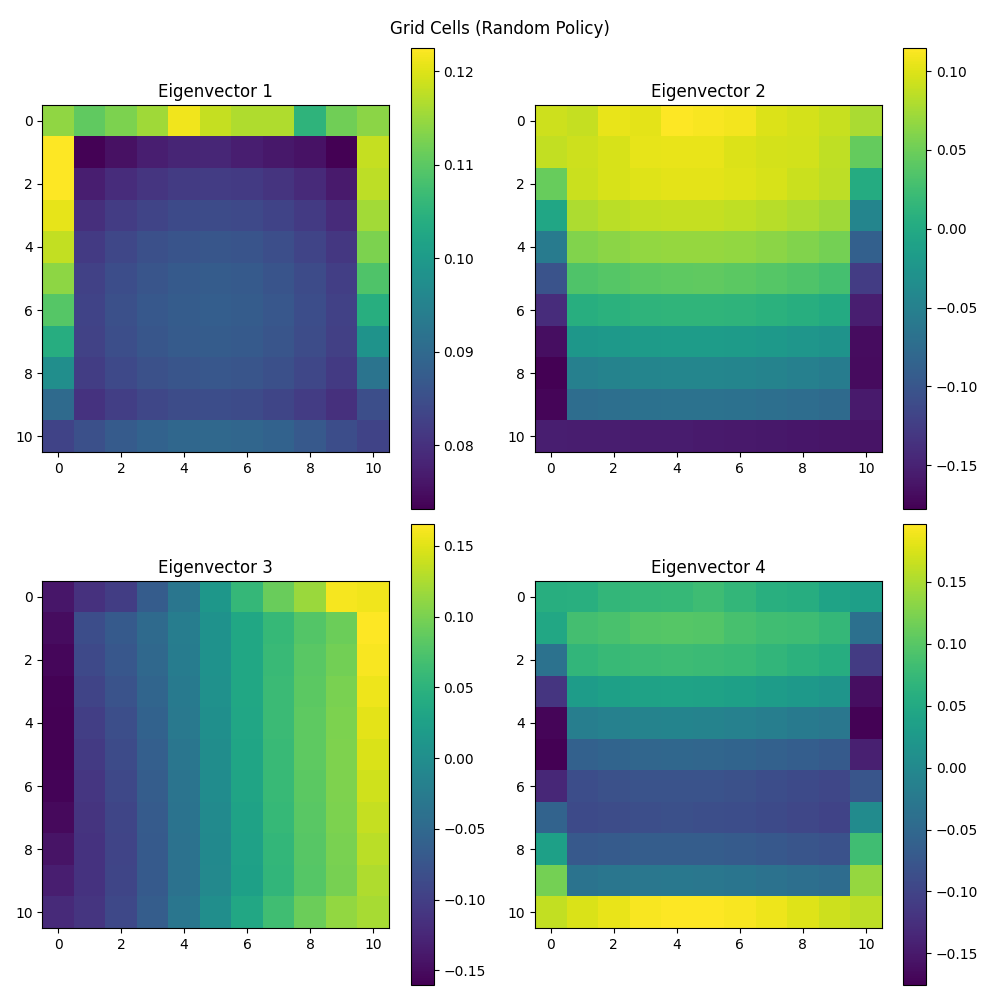
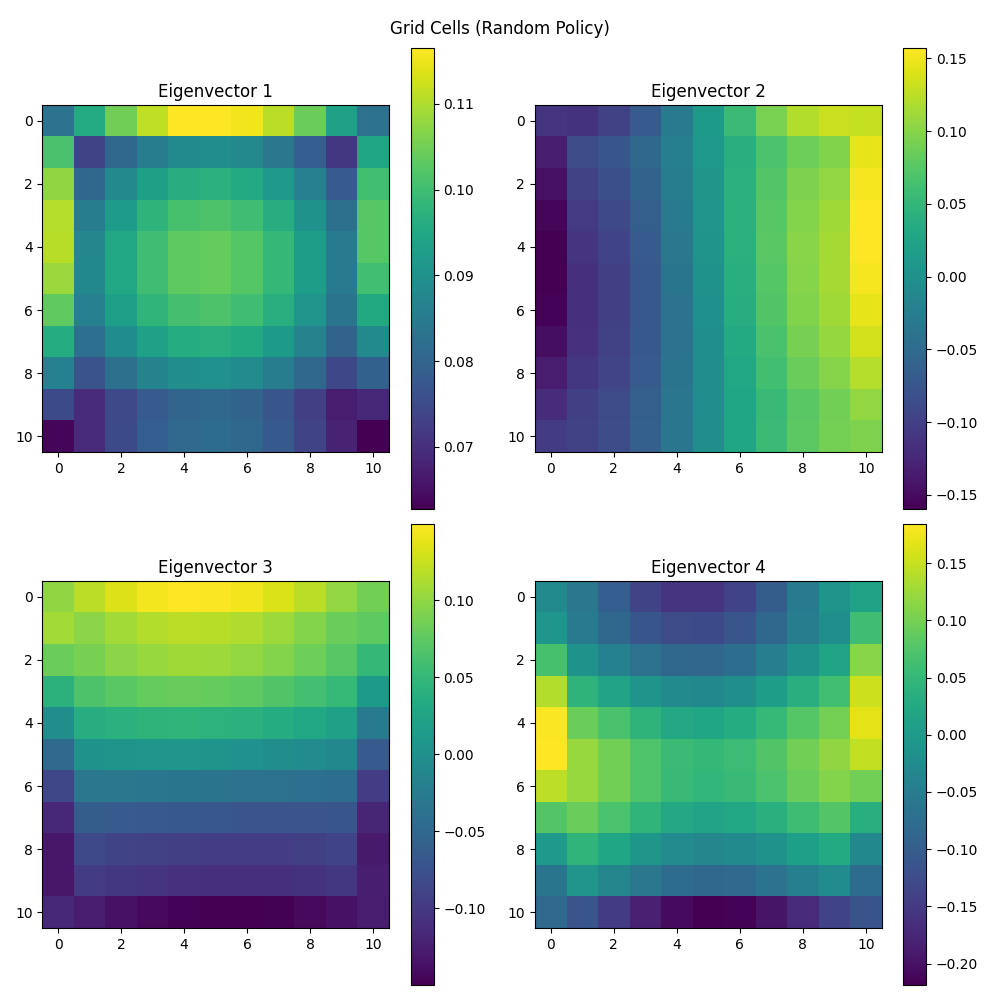
Newest

diff --git a/SRGoalSlice.py b/SRGoalSlice.py
@@ -240,6 +240,7 @@ class TabularSuccessorAgent(object):
         self.gamma = gamma
         self.goal_size = goal_size
         self.goals = np.zeros((state_size, grid_size, grid_size), dtype=int)
+        self.generate_goal_matrices()
     
     # OLD FUNCTION
     # Computes action values by combining the SR with the current reward prediction (w) or a specified goal
@@ -265,16 +266,11 @@ class TabularSuccessorAgent(object):
             return np.argmax(Qs)
     
     # generate number of goals, if no goal size specified, goal_size = state_size
-
-    # ----------------------------------------------------------------
-    # TODO     # Not sure why passing in a goal size doesnt work 
-    # ----------------------------------------------------------------
-    def generate_goal_matrices(self, state_size, goal_size):
-        goal_size = 120 # this is 40 for grid size = 7 and 104 for grid_size = 11
-        self.goals = np.zeros((state_size, grid_size, grid_size), dtype=int)
+    def generate_goal_matrices(self):
+        self.goals = np.zeros((self.goal_size, grid_size, grid_size), dtype=int)
         
         available_positions = [(x, y) for x in range(grid_size) for y in range(grid_size) if [x, y] not in env.blocks]
-        for slice_index in range(min(state_size, goal_size)):
+        for slice_index in range(self.goal_size):
             if slice_index < len(available_positions):
                 x, y = available_positions[slice_index]
                 self.goals[slice_index, x, y] = 1
@@ -367,26 +363,23 @@ def get_goal_sequence(total_episodes, goal_size):
 
 # --------------------Training and Testing Parameters --------------------------------
 # parameters for training
-train_episode_length = 40
-test_episode_length = 40
+train_episode_length = 60
+test_episode_length = 60
 episodes = 100000
-gamma = 0.95
-lr = 5e-2
+gamma = 0.8
+lr = 0.01
 
 initial_train_epsilon = 0.6
 epsilon_decay = 0.995
 
 test_epsilon = 0.01
-goal_size = 120 # Testing with a goal for every state
+goal_size = 121 # Testing with a goal for every state
 
 # Initialize the agent and environment
 agent = TabularSuccessorAgent(env.state_size, env.action_size, lr, gamma, goal_size)
 
-# Generate goal matrices
-all_goals = agent.generate_goal_matrices(agent.state_size, agent.state_size)
-
 # Filter out slices without goals
-goals_with_targets = [slice_index for slice_index in range(all_goals.shape[0]) if np.any(all_goals[slice_index])]
+goals_with_targets = [slice_index for slice_index in range(agent.goals.shape[0]) if np.any(agent.goals[slice_index])]
 
 print(f"Number of slices with goals: {len(goals_with_targets)}")
 
@@ -410,11 +403,8 @@ random_policy_td_errors = []
 # Reinitialize the agent
 random_policy_agent = TabularSuccessorAgent(env.state_size, env.action_size, lr, gamma, goal_size)
 
-# Generate goal matrices
-all_goals = random_policy_agent.generate_goal_matrices(random_policy_agent.state_size, random_policy_agent.state_size)
-
 # Filter out slices without goals
-goals_with_targets = [slice_index for slice_index in range(all_goals.shape[0]) if np.any(all_goals[slice_index])]
+goals_with_targets = [slice_index for slice_index in range(agent.goals.shape[0]) if np.any(agent.goals[slice_index])]
 
 print(f"Number of slices with goals: {len(goals_with_targets)}")
 
@@ -486,11 +476,8 @@ plot_raw_sr(random_policy_agent.M, env, "Random SR Matrix")
 # Reinitialize the agent to ensure an independent learning process for the second loop
 epsilon_greedy_agent = TabularSuccessorAgent(env.state_size, env.action_size, lr, gamma, goal_size)
 
-# Generate goal matrices
-all_goals = epsilon_greedy_agent.generate_goal_matrices(epsilon_greedy_agent.state_size, epsilon_greedy_agent.state_size)
-
 # Filter out slices without goals
-goals_with_targets = [slice_index for slice_index in range(all_goals.shape[0]) if np.any(all_goals[slice_index])]
+goals_with_targets = [slice_index for slice_index in range(agent.goals.shape[0]) if np.any(agent.goals[slice_index])]
 
 experiences = []
 test_experiences = []
